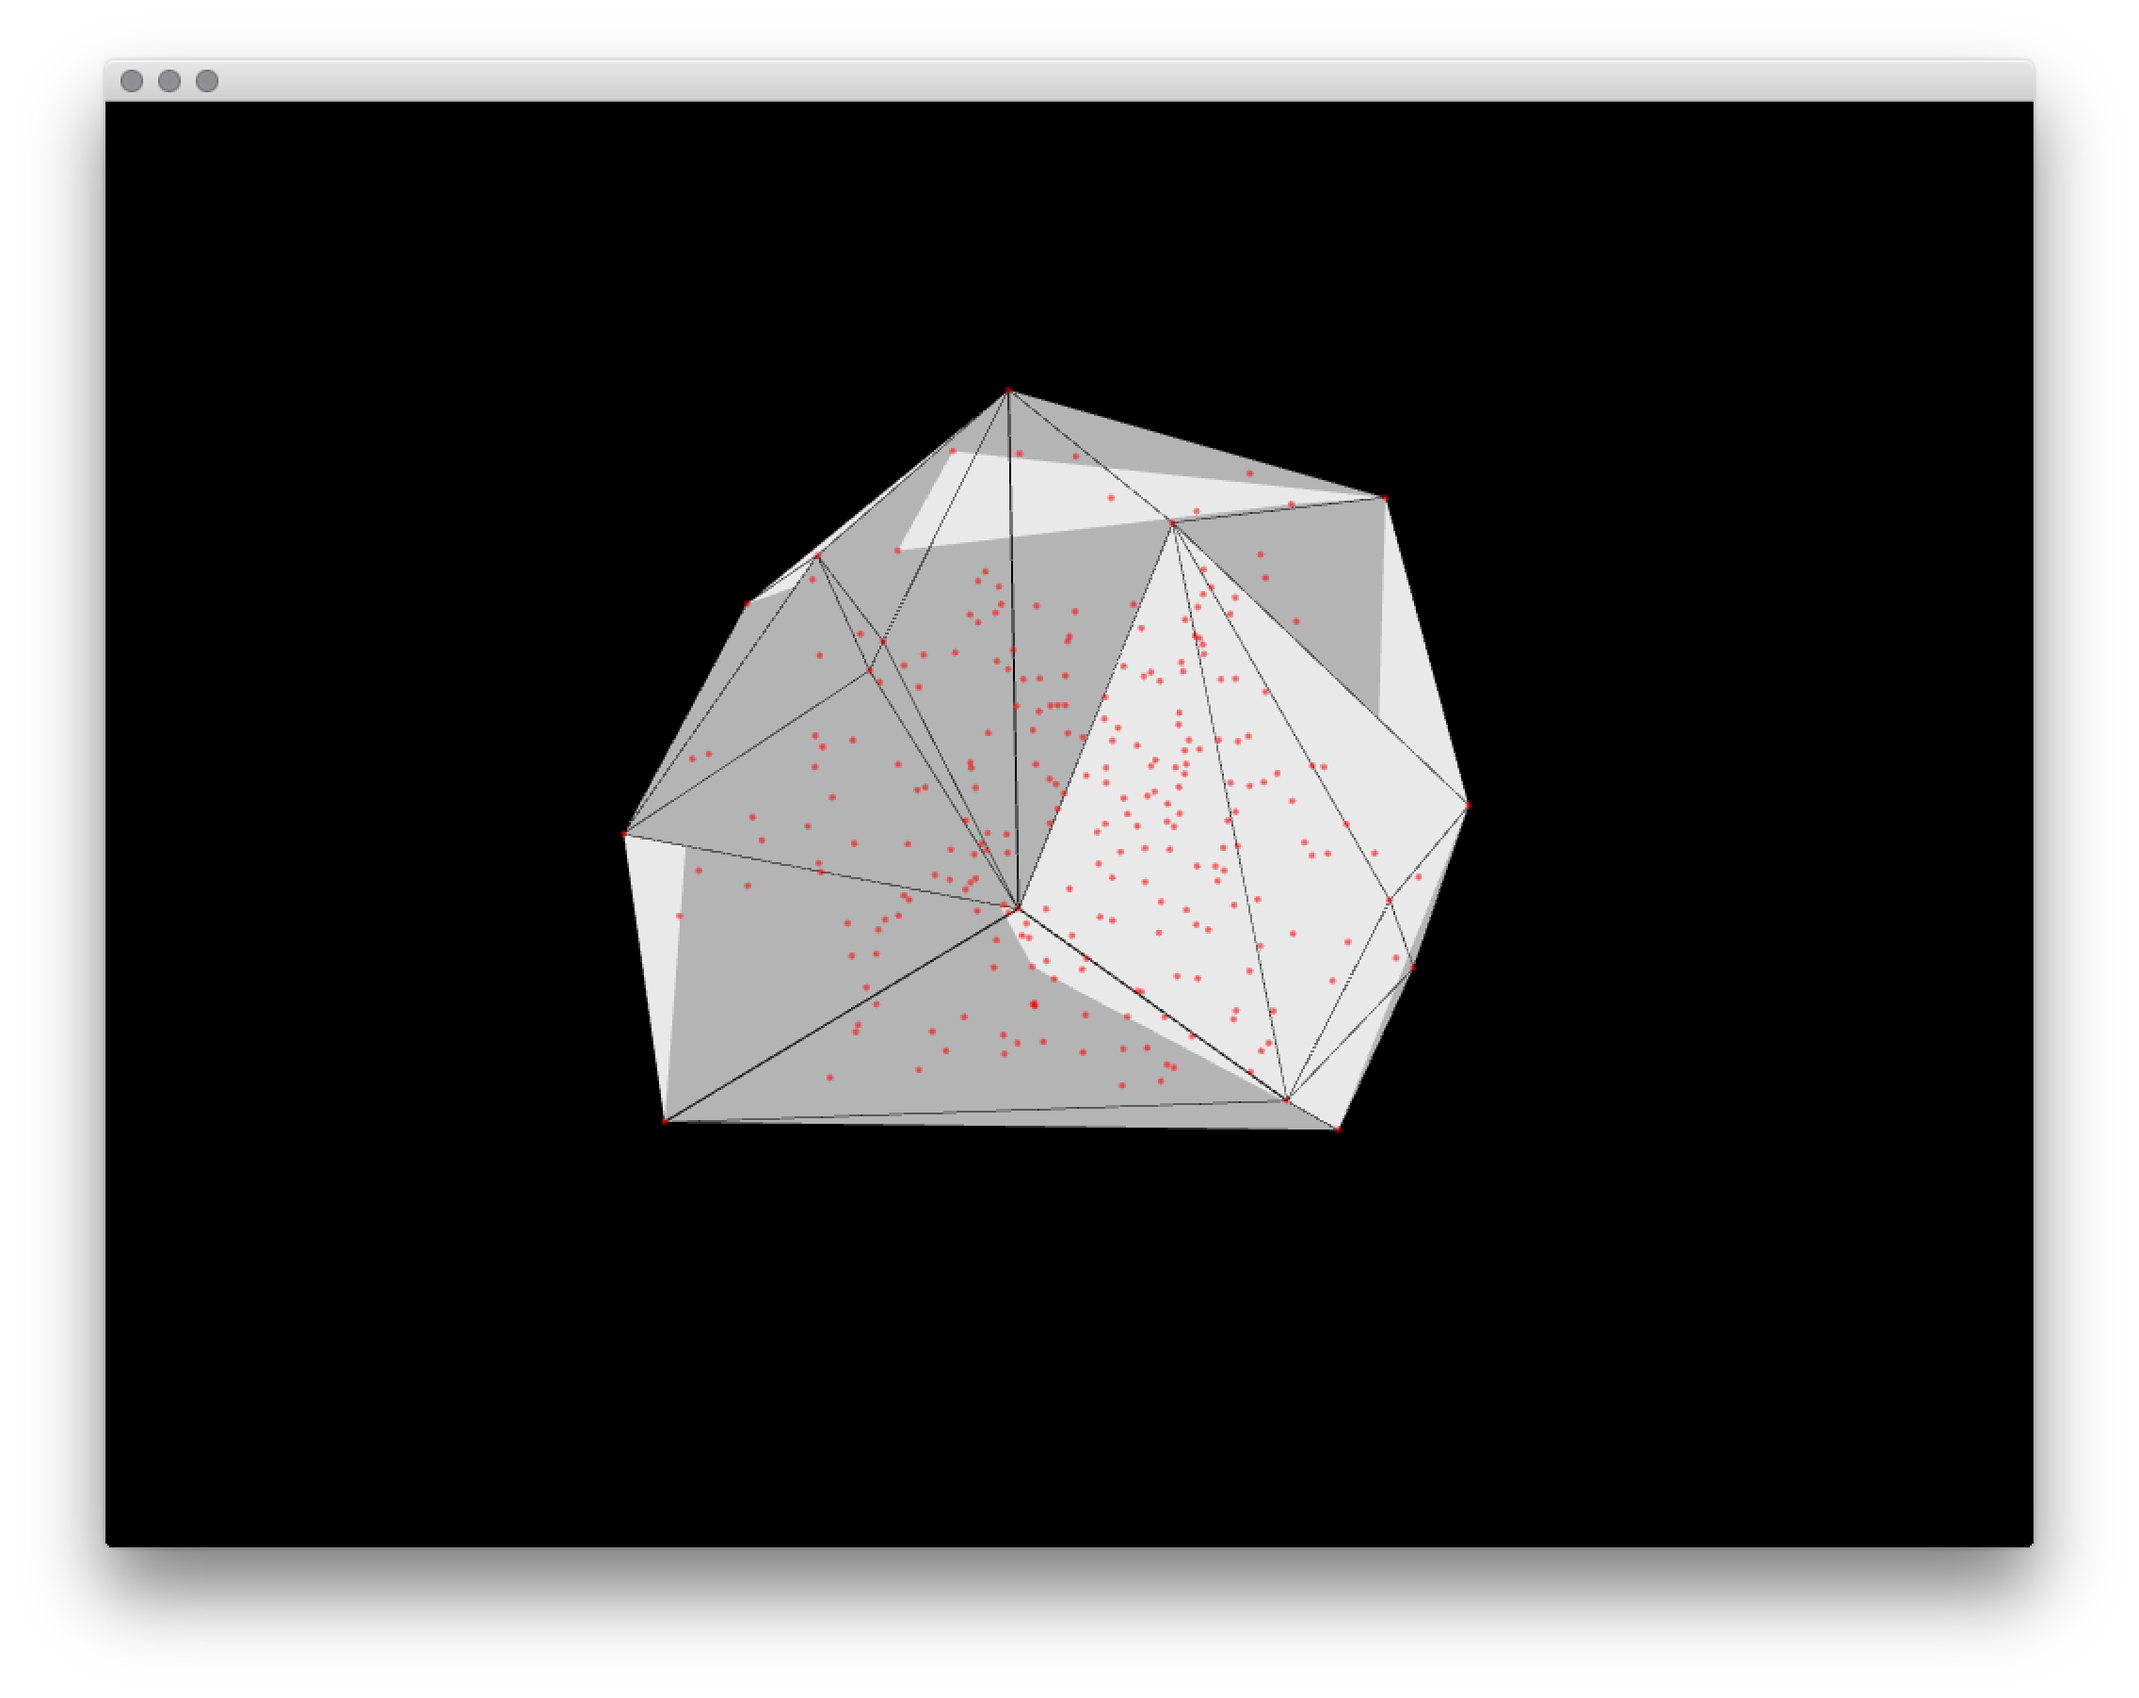
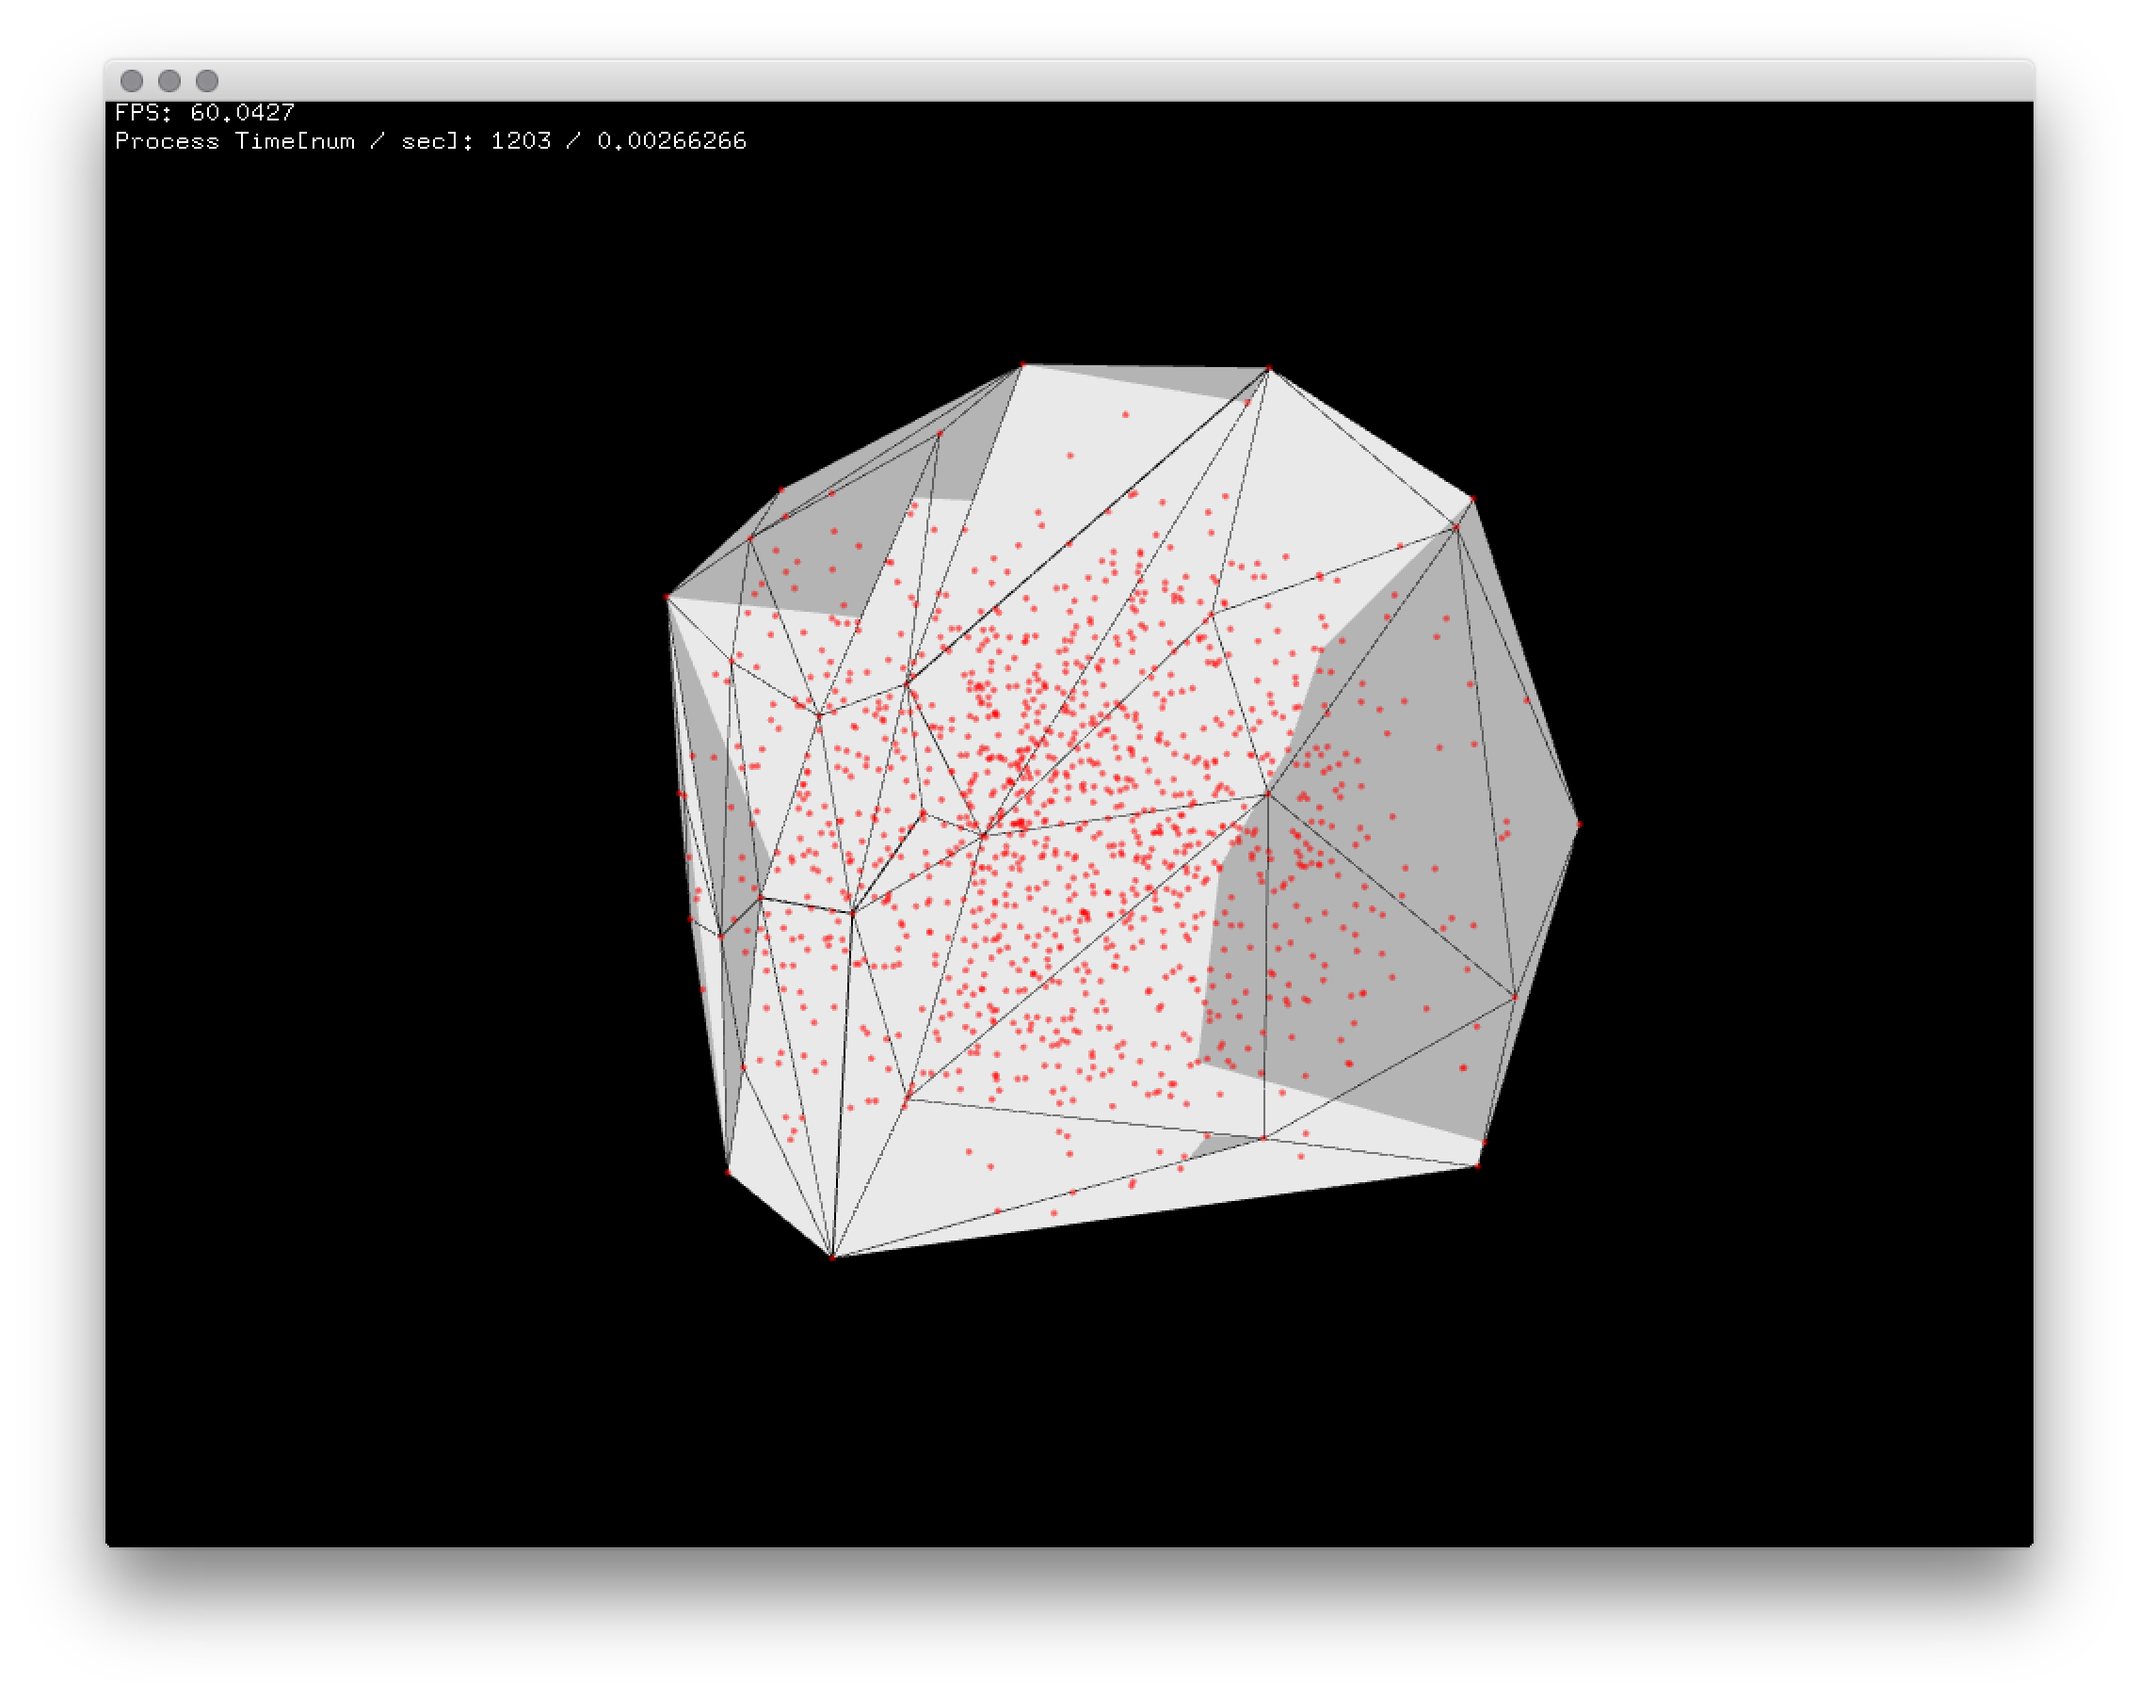
escaping to access to NULL pointer

Changed region(s): [[0.2812, 0.2173, 0.75, 0.745], [0.0625, 0.0621, 0.125, 0.0931]]

diff --git a/src/ofx3DQuickHull.h b/src/ofx3DQuickHull.h
@@ -24,20 +24,21 @@ namespace ofx3DQuickHull {
         qh_mesh_t m = qh_quickhull3d(vertices, num);
         
         ofMesh mesh;
-        
         for (int i = 0, j = 0; i < m.nindices; i += 3, j++) {
-            qh_vertex_t v0 = m.vertices[m.indices[i+0]];
-            qh_vertex_t v1 = m.vertices[m.indices[i+1]];
-            qh_vertex_t v2 = m.vertices[m.indices[i+2]];
-            
-            qh_vec3_t n = m.normals[m.normalindices[j]];
-            
-            mesh.addVertex(ofVec3f(v0.x, v0.y, v0.z));
-            mesh.addVertex(ofVec3f(v1.x, v1.y, v1.z));
-            mesh.addVertex(ofVec3f(v2.x, v2.y, v2.z));
-            mesh.addNormal(ofVec3f(n.x, n.y, n.z));
-            mesh.addNormal(ofVec3f(n.x, n.y, n.z));
-            mesh.addNormal(ofVec3f(n.x, n.y, n.z));
+            if ( m.indices[i+0] < m.nvertices && m.indices[i+1] < m.nvertices && m.indices[i+2] < m.nvertices &&  m.normalindices[j] < m.nnormals ) {
+                qh_vertex_t * v0 = m.vertices + m.indices[i+0];
+                qh_vertex_t * v1 = m.vertices + m.indices[i+1];
+                qh_vertex_t * v2 = m.vertices + m.indices[i+2];
+                
+                qh_vec3_t * n = m.normals + m.normalindices[j];
+                
+                mesh.addVertex(ofVec3f(v0->x, v0->y, v0->z));
+                mesh.addVertex(ofVec3f(v1->x, v1->y, v1->z));
+                mesh.addVertex(ofVec3f(v2->x, v2->y, v2->z));
+                mesh.addNormal(ofVec3f(n->x, n->y, n->z));
+                mesh.addNormal(ofVec3f(n->x, n->y, n->z));
+                mesh.addNormal(ofVec3f(n->x, n->y, n->z));
+            }
         }
         
         qh_free_mesh(m);

diff --git a/example/ofApp.cpp b/example/ofApp.cpp
@@ -28,7 +28,8 @@ void ofApp::update(){
     }
     float t = ofGetElapsedTimef();
     mesh = ofx3DQuickHull::quickhull3d(verts);
-    cout << "TIME(count / sec): " << num << " / " << ofGetElapsedTimef() - t << endl;
+    str.str("");
+    str << "Process Time[num / sec]: " << num << " / " << ofGetElapsedTimef() - t << endl;
 }
 
 //--------------------------------------------------------------
@@ -48,6 +49,9 @@ void ofApp::draw(){
     origin.drawVertices();
     
     cam.end();
+    ofSetColor(255);
+    ofDrawBitmapString("FPS: " + ofToString(ofGetFrameRate()), 5, 10);
+    ofDrawBitmapString(str.str(), 5, 25);
 }
 
 //--------------------------------------------------------------

diff --git a/example/ofApp.h b/example/ofApp.h
@@ -24,4 +24,5 @@ class ofApp : public ofBaseApp{
     ofEasyCam cam;
     ofMesh mesh;
     ofMesh origin;
+    stringstream str;
 };
